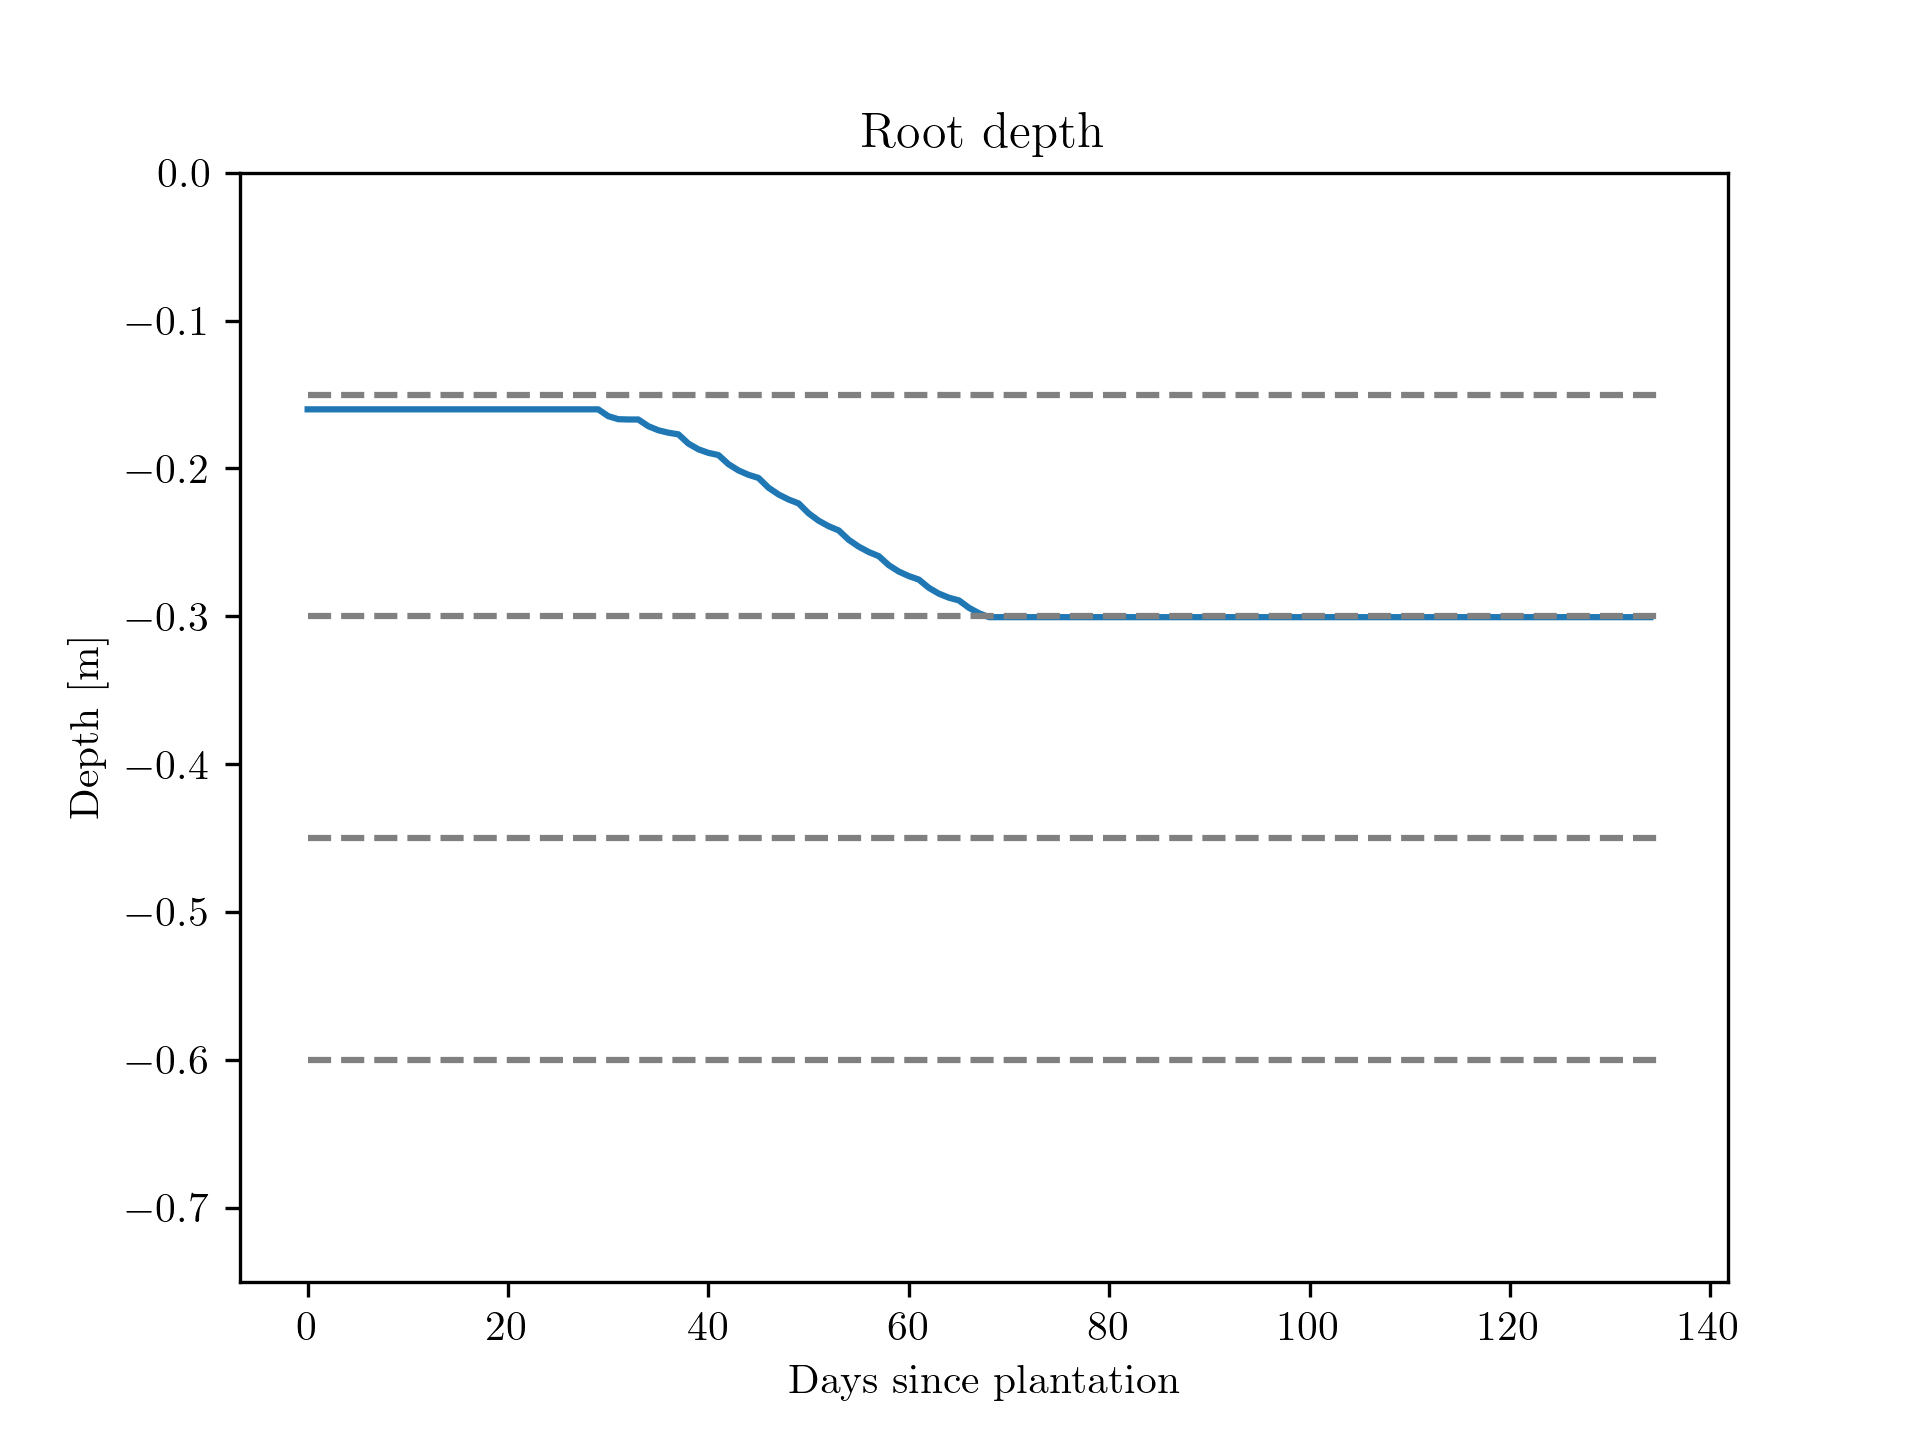
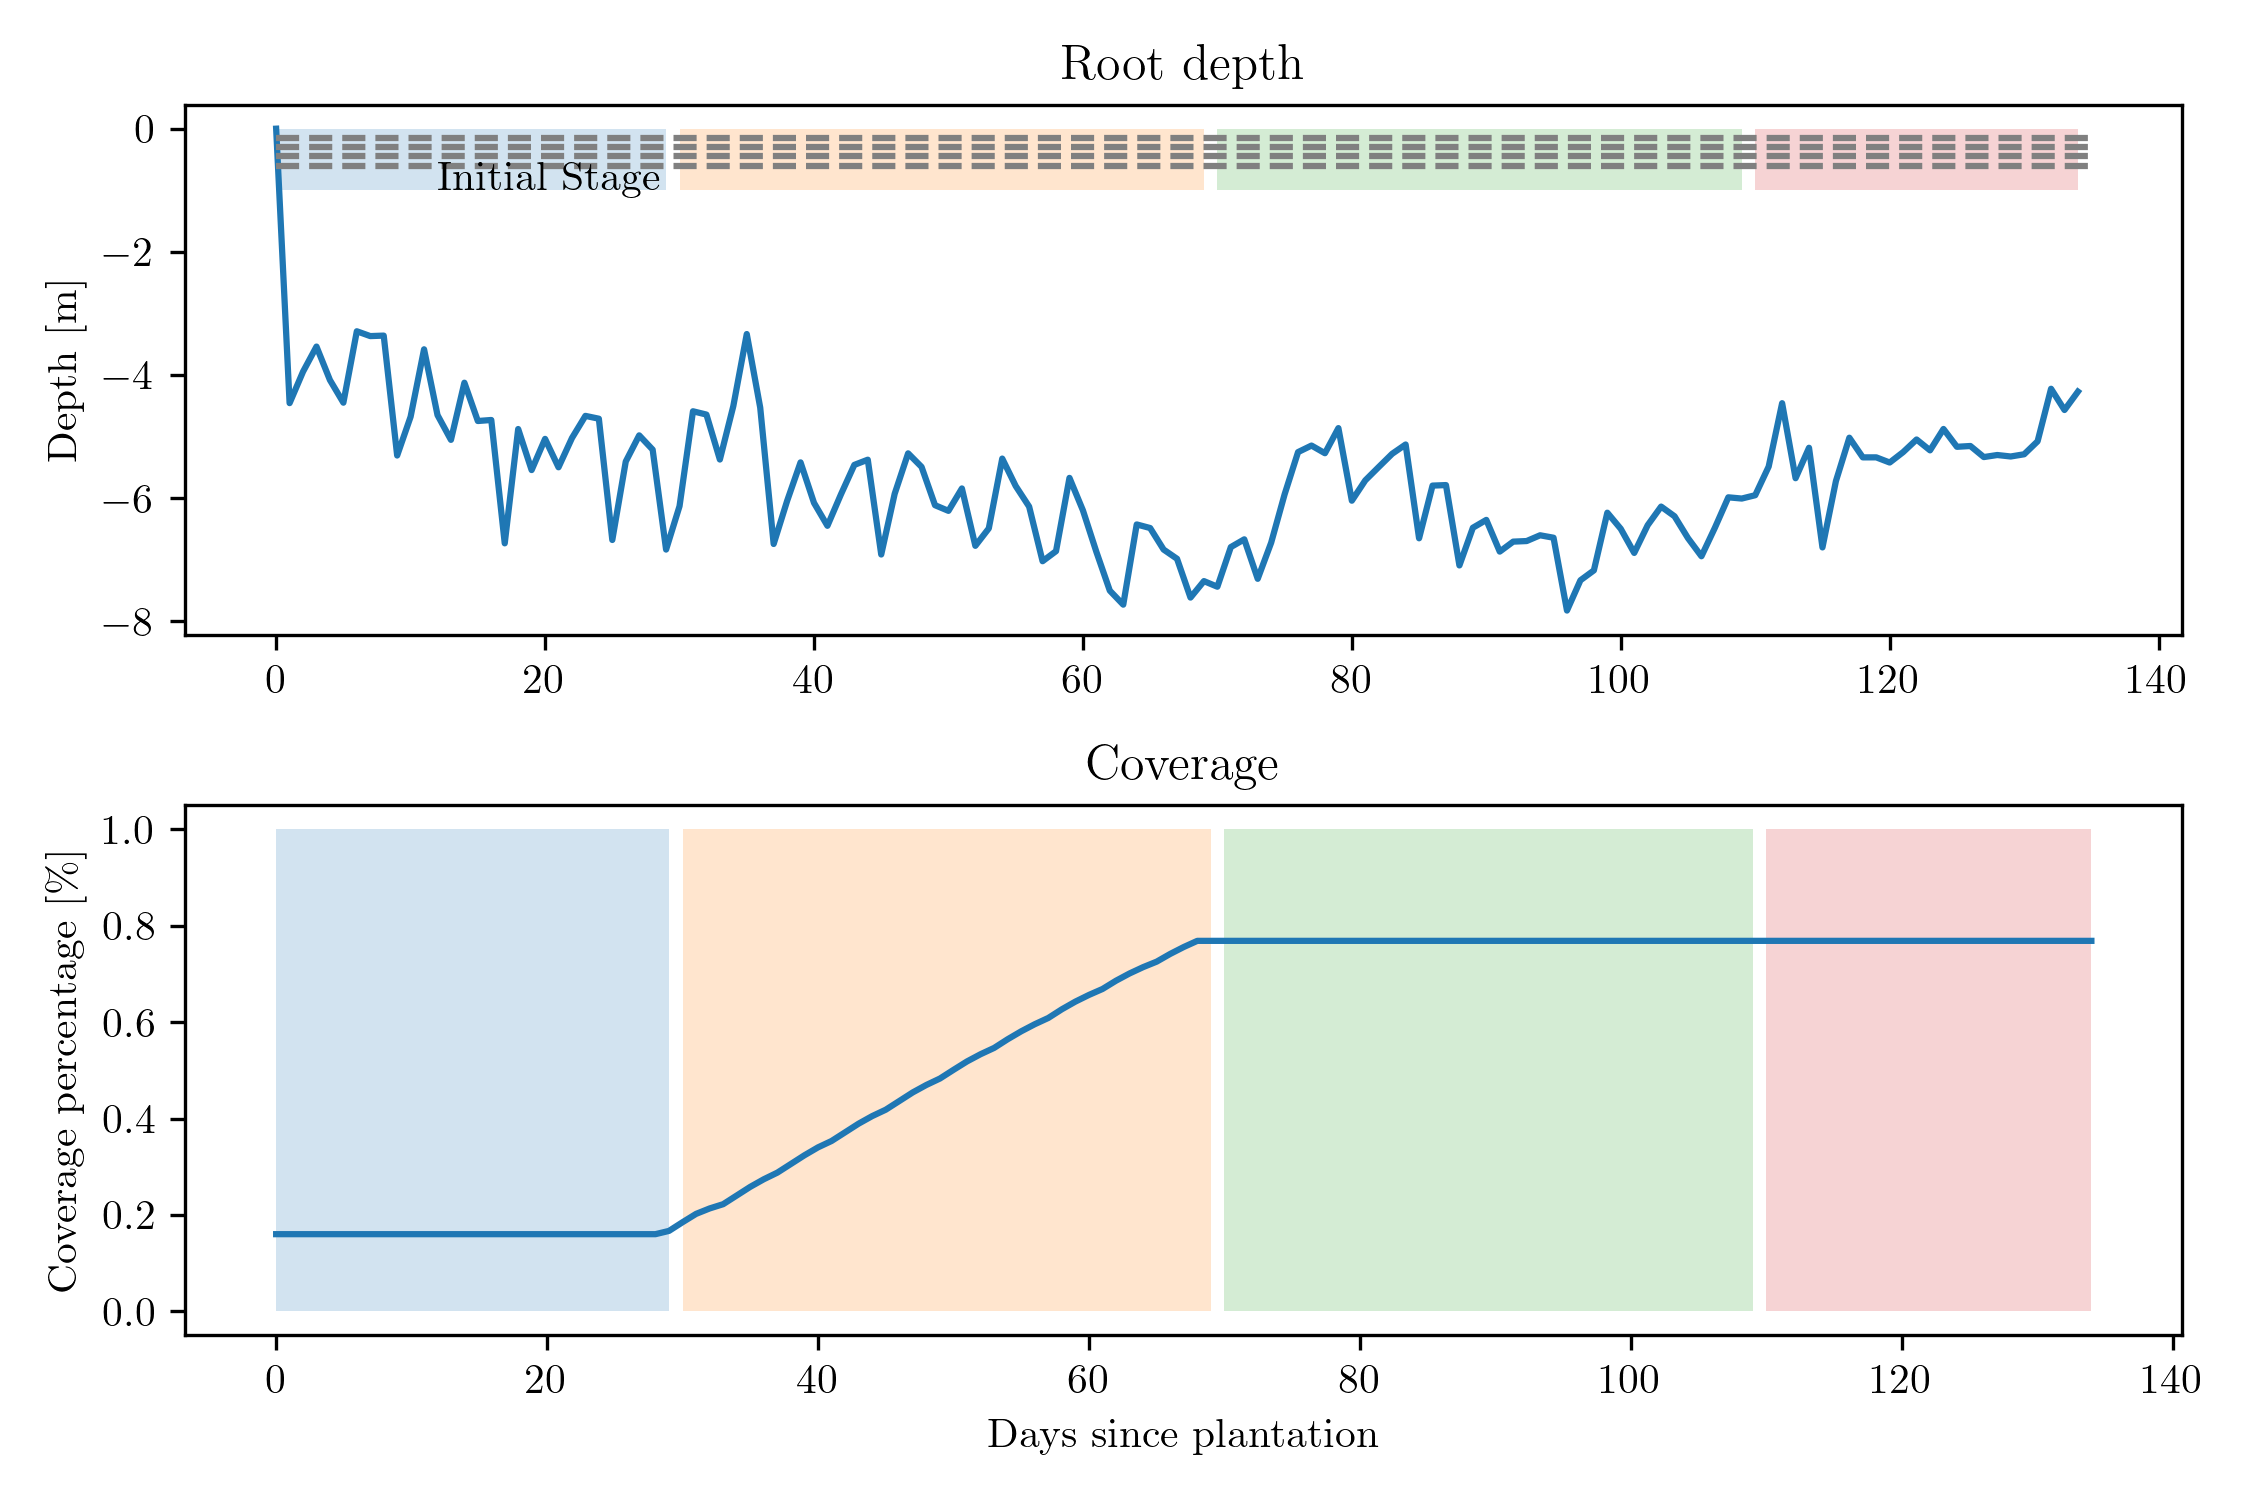
pre coupled execution

diff --git a/crop_simu_results.py b/crop_simu_results.py
@@ -84,10 +84,10 @@ plt.show()
 
 
 #%%
-plt.plot(crop_data[:,-1], label=r"$K_{\text{e bound}}$")
-plt.plot(crop_data[:,-2], label=r"$K_r$")
-plt.plot(crop_data[:,-3], label=r"$K_e$")
-plt.plot(crop_data[:,-4], label=r"$K_s$")
+plt.plot(crop_data[:,-2], label=r"$K_{\text{e bound}}$")
+plt.plot(crop_data[:,-3], label=r"$K_r$")
+plt.plot(crop_data[:,-4], label=r"$K_e$")
+plt.plot(crop_data[:,-5], label=r"$K_s$")
 fig = plt.gcf() 
 fig.set_size_inches(6,3)
 plt.xlabel("Days since plantation")
@@ -124,17 +124,17 @@ plt.fill_between(range(1, simu_days), evaporation, crop_data[1:,4], color = "lim
 
 # Adding text annotations
 mid_point = simu_days // 2
-plt.text(30, 1.1, 'Evaporation', color='tab:blue', ha='center')
+plt.text(30, 0.1, 'Evaporation', color='tab:blue', ha='center')
 plt.text(80, (crop_data[1:,4][80] + evaporation[80]) / 2, 'Transpiration', color='green', ha='center')
 
 
 fig = plt.gcf() 
 fig.set_size_inches(7.5,3)
 plt.legend()
-plt.xlabel("Days since plantation")
-plt.ylabel("Water depth [mm]")
+plt.xlabel("Time since plantation [days]")
+plt.ylabel("Water loss [mm]")
 plt.legend(loc = "upper right")
-plt.title("Evapotranspiration")
+plt.title("Tomato crop evapotranspiration during a season")
 plt.grid()
 plt.tight_layout()
 plt.savefig("evapotranspiration.png", dpi=300)

diff --git a/environments/WMS_env.py b/environments/WMS_env.py
@@ -834,6 +834,7 @@ def soil_from_dicts(evp_layer: Dict[str, float], layers: List[Dict[str, float]])
     soil = Soil(evp_layer_from_dict(evp_layer))
     for layer_info in layers:
         soil.add_layer(layer_from_dict(layer_info))
+    soil.all_layers = soil.layers + [soil.evp_layer]
     return soil
 
 
